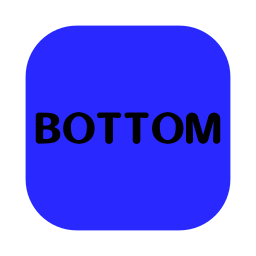
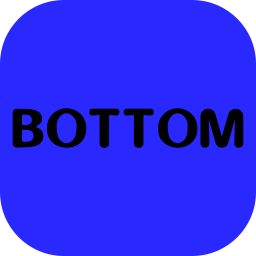
Remove edges from gimble

diff --git a/js/startup.js b/js/startup.js
@@ -132,23 +132,11 @@ scene.add(axesHelper);
 // const boxDepth = 1;
 // const axesGeometry = new THREE.BoxBufferGeometry(boxWidth, boxHeight, boxDepth);
 
-const rightView = new THREE.PlaneGeometry(1, 1);
-const leftView = new THREE.PlaneGeometry(1, 1);
-const backView = new THREE.PlaneGeometry(1, 1);
-const frontView = new THREE.PlaneGeometry(1, 1);
-const topView = new THREE.PlaneGeometry(1, 1);
-const bottomView = new THREE.PlaneGeometry(1, 1);
-const frontRightTopView = new THREE.CircleBufferGeometry(0.1, 32);
-const rightBackTopView = new THREE.CircleBufferGeometry(0.1, 32);
-const backLeftTopView = new THREE.CircleBufferGeometry(0.1, 32);
-const leftFrontTopView = new THREE.CircleBufferGeometry(0.1, 32);
-const frontRightBottomView = new THREE.CircleBufferGeometry(0.1, 32);
-const rightBackBottomView = new THREE.CircleBufferGeometry(0.1, 32);
-const backLeftBottomView = new THREE.CircleBufferGeometry(0.1, 32);
-const leftFrontBottomView = new THREE.CircleBufferGeometry(0.1, 32);
-const viewPlanes = [rightView, leftView, backView, frontView, topView, bottomView,
-  frontRightTopView, rightBackTopView, backLeftTopView, leftFrontTopView,
-  frontRightBottomView, rightBackBottomView, backLeftBottomView, leftFrontBottomView];
+const viewPlane = new THREE.PlaneGeometry(0.8, 0.8);
+const viewCircle = new THREE.CircleBufferGeometry(0.1, 32);
+const viewPlanes = [viewPlane, viewPlane, viewPlane, viewPlane, viewPlane, viewPlane,
+  viewCircle, viewCircle, viewCircle, viewCircle,
+  viewCircle, viewCircle, viewCircle, viewCircle];
 const viewPositions = [[0.5, 0, 0], [-0.5, 0, 0], [0, 0.5, 0], [0, -0.5, 0], [0, 0, 0.5], [0, 0, -0.5],
 [0.4, -0.4, 0.4], [0.4, 0.4, 0.4], [-0.4, 0.4, 0.4], [-0.4, -0.4, 0.4],
 [0.4, -0.4, -0.4], [0.4, 0.4, -0.4], [-0.4, 0.4, -0.4], [-0.4, -0.4, -0.4]];
@@ -308,19 +296,6 @@ function onCanvasClick(evt) {
   var intersects = getIntersects(onClickPosition, scene.children);
   if (intersects.length > 0 && intersects[0].uv) {
     var intersect = intersects[0];
-    if (intersect.uv[0] <= uvMargin || intersect.uv[0] >= (1.0 - uvMargin) ||
-      intersect.uv[1] <= uvMargin || intersect.uv[1] >= (1.0 - uvMargin)) {
-      // corner-checks for angled views go here.
-      if (intersects.length > 1) {
-        intersect = intersects[1];
-        var clickCallback = clickCallbacksByUUID[intersect.object.uuid];
-        if (clickCallback) {
-          clickCallback();
-          return false;
-        }
-      }
-      return true;
-    }
     var clickCallback = clickCallbacksByUUID[intersect.object.uuid];
     if (clickCallback) {
       clickCallback();
